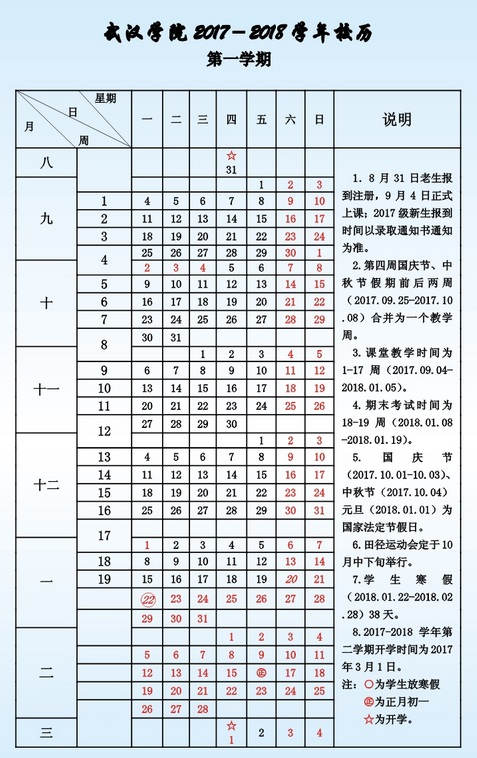
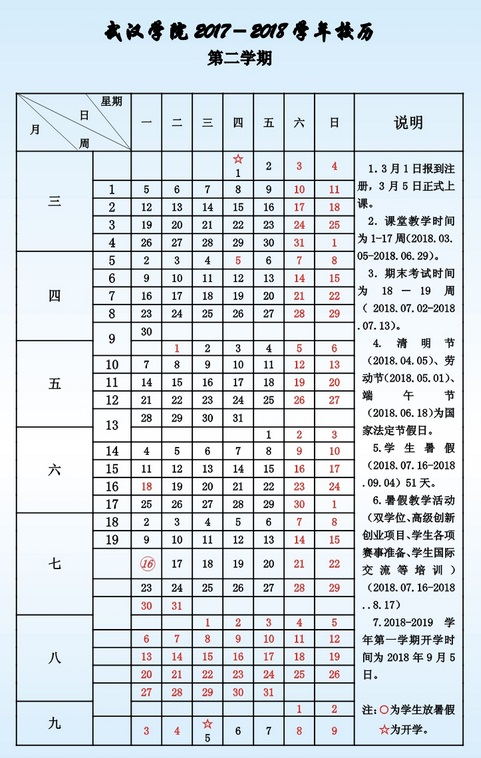
cc

diff --git a/docs/html/21.time/index.html b/docs/html/21.time/index.html
@@ -14,7 +14,7 @@
 </head>
 <body>
   <div class="weui-cells__title">校历时间</div>
-  <div class="container"><img src="img/year__last.jpg" alt="" width="100%"/></div>
+  <div class="container"><img name="time__img" src="img/year__last.jpg" alt="" width="100%"/></div>
   <div class="weui-cells__title">作息时间</div>
   <div class="container"><img src="img/01.jpg" alt="" width="100%"/></div>
   <footer class="weui-footer">
@@ -25,4 +25,14 @@
       <p class="ueui-footer__text">Copyright &copy; 2017 信息中心</p>
     </div>
   </footer>
+  <script>
+    window.onload=function (){
+        var myDate = new Date();  
+        var month =  myDate.getMonth();
+    
+        var time__img = document.getElementsByName("time__img")[0];
+    
+        Boolean(2 < month && month < 7)?time__img.setAttribute("src","img/year__first.jpg"):time__img.setAttribute("src","img/year__last.jpg");
+    }
+  </script>
 </body>
